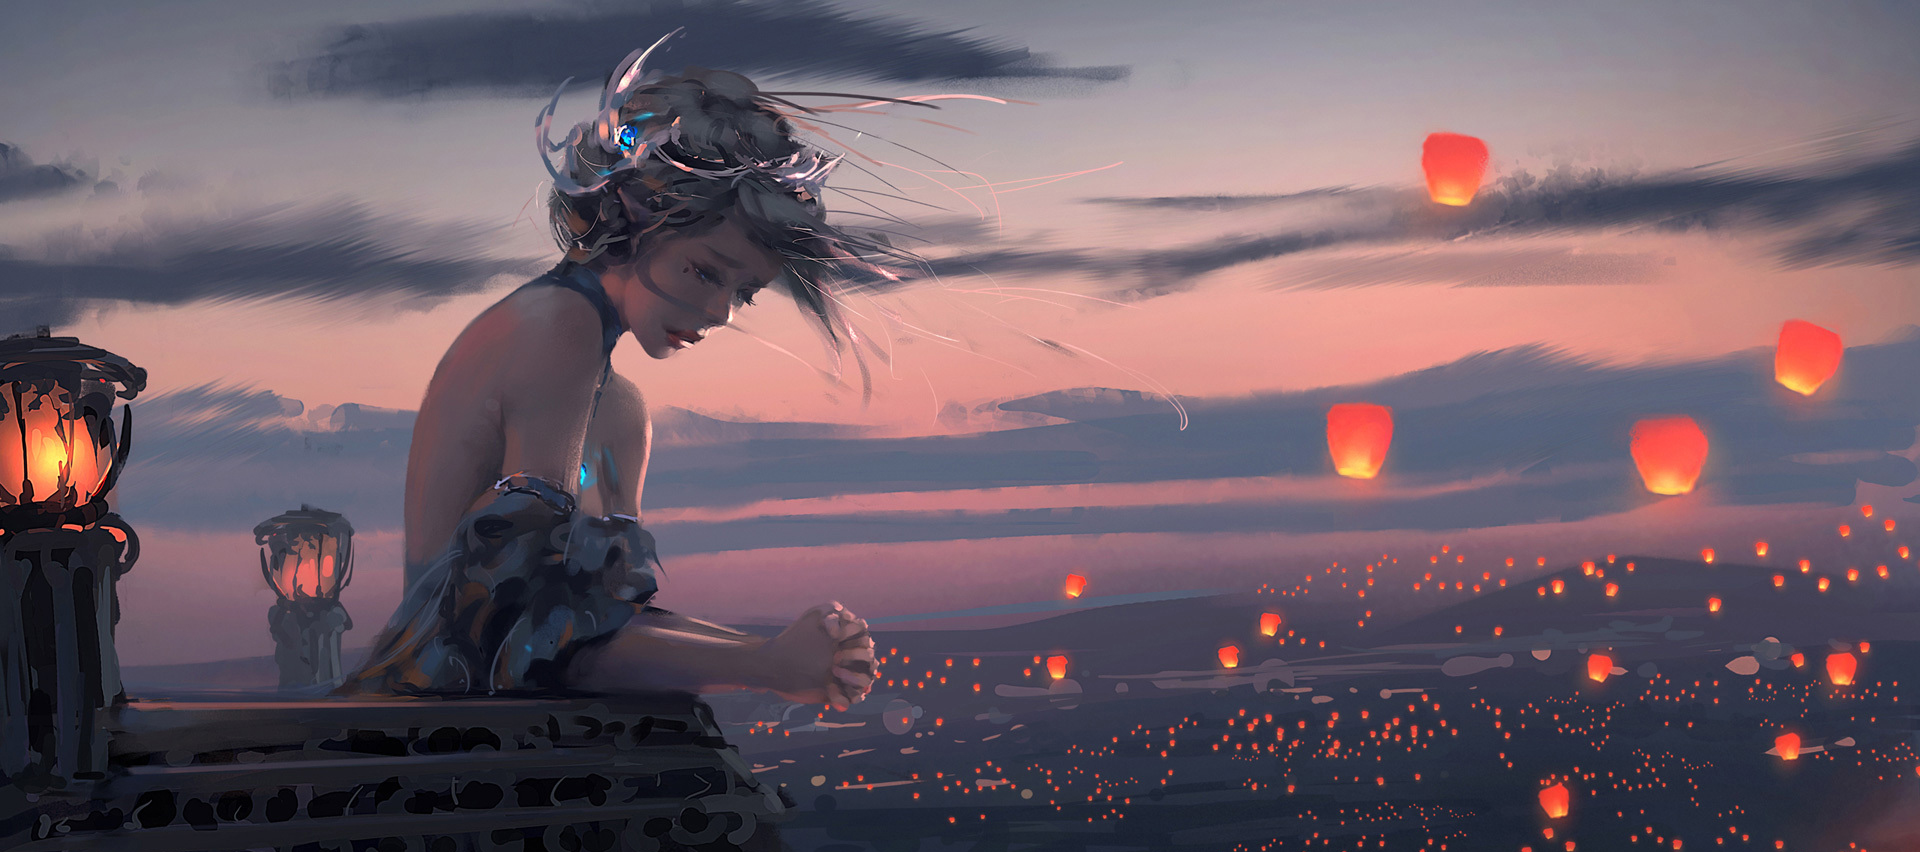
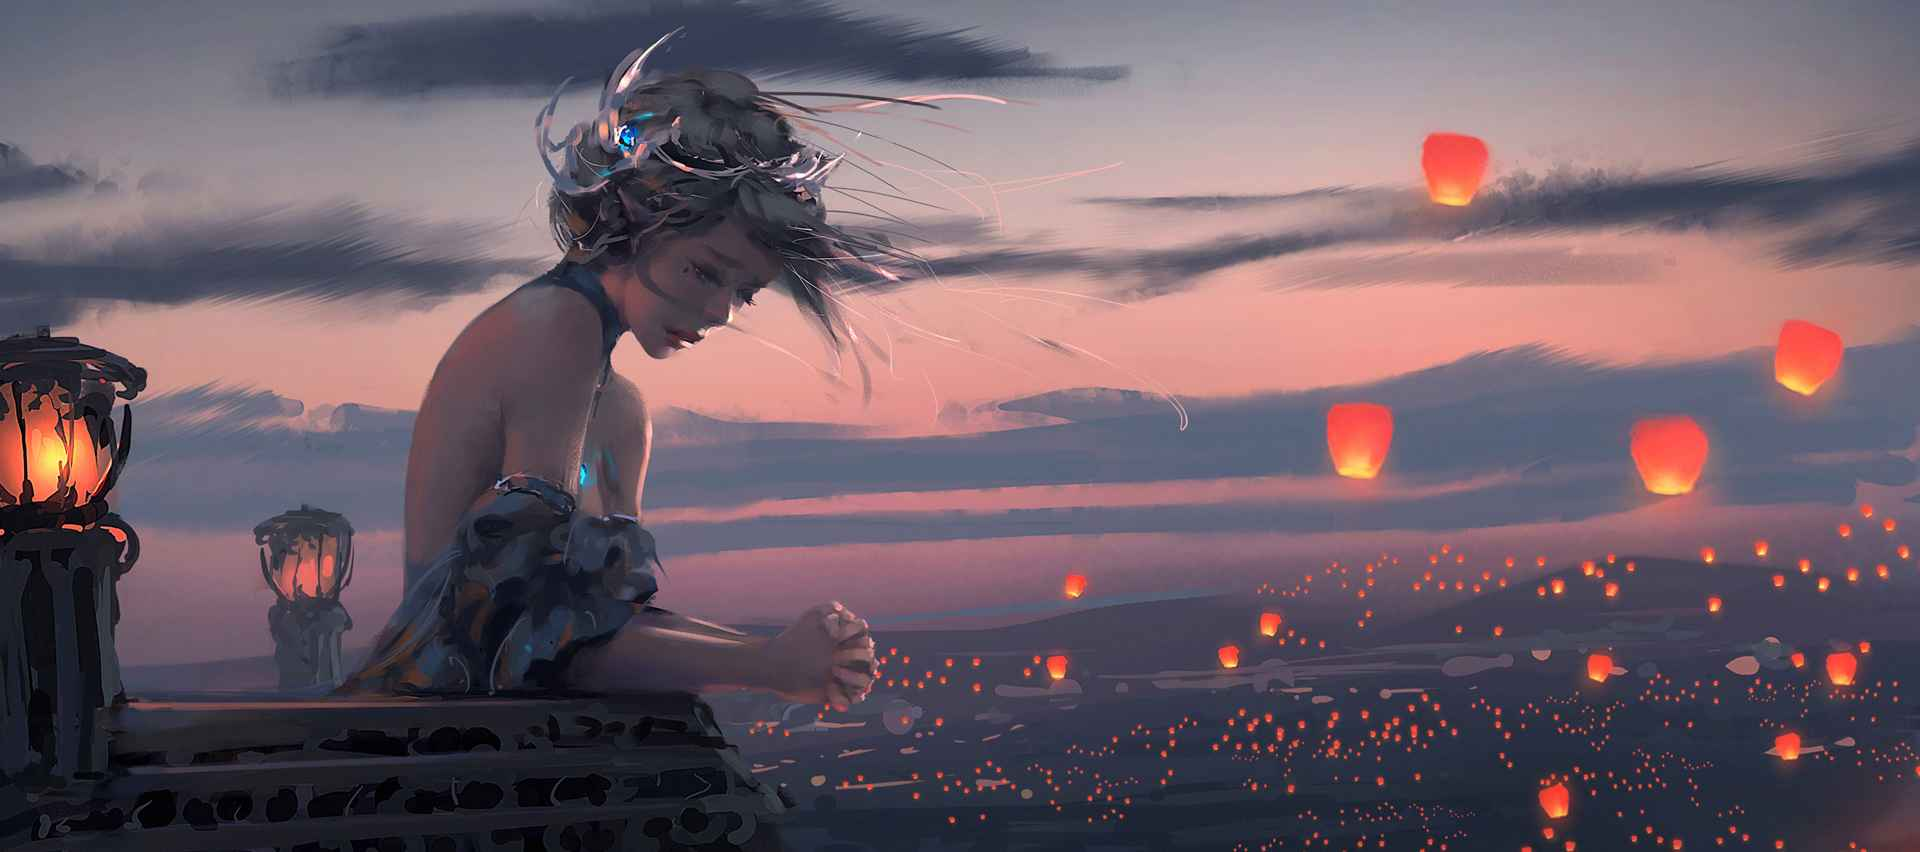
压缩图片

diff --git a/js/index.js b/js/index.js
@@ -1,253 +1,1 @@
-Date.prototype.Format = function (fmt) { // 
-  var o = {
-    "M+": this.getMonth() + 1, // 月份
-    "d+": this.getDate(), // 日
-    "h+": this.getHours(), // 小时
-    "m+": this.getMinutes(), // 分
-    "s+": this.getSeconds(), // 秒
-    "q+": Math.floor((this.getMonth() + 3) / 3), // 季度
-    "S": this.getMilliseconds() // 毫秒
-  };
-  if (/(y+)/.test(fmt))
-    fmt = fmt.replace(RegExp.$1, (this.getFullYear() + "").substr(4 - RegExp.$1.length));
-  for (var k in o)
-    if (new RegExp("(" + k + ")").test(fmt)) fmt = fmt.replace(RegExp.$1, (RegExp.$1.length == 1) ? (o[k]) : (("00" + o[k]).substr(("" + o[k]).length)));
-      return fmt;
-}
-
-
-const abi = [
-  {
-    "inputs": [
-      {
-        "internalType": "string",
-        "name": "title",
-        "type": "string"
-      }
-    ],
-    "name": "getBlog",
-    "outputs": [
-      {
-        "components": [
-          {
-            "internalType": "string",
-            "name": "title",
-            "type": "string"
-          },
-          {
-            "internalType": "string",
-            "name": "date",
-            "type": "string"
-          },
-          {
-            "internalType": "string",
-            "name": "content",
-            "type": "string"
-          }
-        ],
-        "internalType": "struct Blog.blog",
-        "name": "",
-        "type": "tuple"
-      }
-    ],
-    "stateMutability": "view",
-    "type": "function"
-  },
-  {
-    "inputs": [
-      {
-        "internalType": "string",
-        "name": "datakey",
-        "type": "string"
-      }
-    ],
-    "name": "getData",
-    "outputs": [
-      {
-        "internalType": "string",
-        "name": "",
-        "type": "string"
-      }
-    ],
-    "stateMutability": "view",
-    "type": "function"
-  },
-  {
-    "inputs": [
-      {
-        "internalType": "string",
-        "name": "title",
-        "type": "string"
-      },
-      {
-        "internalType": "string",
-        "name": "date",
-        "type": "string"
-      },
-      {
-        "internalType": "string",
-        "name": "content",
-        "type": "string"
-      }
-    ],
-    "name": "saveBlog",
-    "outputs": [],
-    "stateMutability": "nonpayable",
-    "type": "function"
-  },
-  {
-    "inputs": [
-      {
-        "internalType": "string",
-        "name": "datakey",
-        "type": "string"
-      },
-      {
-        "internalType": "string",
-        "name": "datavalue",
-        "type": "string"
-      }
-    ],
-    "name": "saveData",
-    "outputs": [],
-    "stateMutability": "nonpayable",
-    "type": "function"
-  },
-  {
-    "inputs": [
-      {
-        "internalType": "string",
-        "name": "_titles",
-        "type": "string"
-      }
-    ],
-    "name": "saveTitles",
-    "outputs": [],
-    "stateMutability": "nonpayable",
-    "type": "function"
-  },
-  {
-    "inputs": [],
-    "name": "titles",
-    "outputs": [
-      {
-        "internalType": "string",
-        "name": "",
-        "type": "string"
-      }
-    ],
-    "stateMutability": "view",
-    "type": "function"
-  }
-];
-
[1 lines of base64/hex data omitted]
-
-const conflux = new window.Conflux.Conflux({
-  url: 'https://test.confluxrpc.com',
-  networkId: 1,
-});
-const account = conflux.wallet.addPrivateKey(PRIVATE_KEY);
-
-function getContract(){
-  const contract = conflux.Contract({ abi, address: 'cfxtest:acctjwbk6615xd92b167626ws5957zpg92yhnjrkee' });
-  return contract;
-}
-
-async function getTitles() {
-  const contract = getContract();
-  const titlesStr = await contract.titles();
-  return titlesStr;
-}
-
-async function showTitles (){
-  const titlesStr = await getTitles();
-  const introUl = $("#intro").children("ul");
-  const titles = titlesStr.split("||");
-  $(introUl).html("");
-  for(var i=0;i<titles.length;i++){
-    $(introUl).append('<li onclick="showBlog(this)">'+titles[i]+'</li>');
-  }
-}
-
-var isAdding = 0;
-
-async function addBlog() {
-  if(isAdding == 1){
-    return;
-  }
-  const contract = getContract();
-  const title = $("#title").val().trim();
-  const content = $("#content").val().trim();
-  if(!title || !content){
-    return;
-  }
-  isAdding = 1;
-  $("#addBlogTips").show();
-  //先更新标题列表
-  var titlesStr = await getTitles();
-  var res = "";
-  if(titlesStr.indexOf(title) == -1){
-    titlesStr = titlesStr + "||" + title;
-    res = await contract.saveTitles(titlesStr).sendTransaction({ from: account }).executed();
-    console.log(res);
-  }
-  const nowTime = new Date().Format("yyyy-MM-dd hh:mm");
-  res = await contract.saveBlog(title,nowTime,content).sendTransaction({ from: account }).executed();
-  console.log(res);
-  isAdding = 0;
-  await showTitles();
-  $("#title").val('');
-  $("#content").val('');
-  $("#addBlogTips").hide();
-  alert('添加成功');
-  window.location.href = '#intro';
-}
-
-async function showBlog(o) {
-  const title = $(o).text();
-  const contract = getContract();
-  const postJson = await contract.getBlog(title);
-  const post = $("#post");
-  post.html('<h3 class="major">' + title + '</h3><h5>' + postJson['1'] + '</h5>');
-  post.append(postJson['2']);
-  window.location.href = '#post';
-}
-
-var isHandlingData = 0;
-
-async function handleData(flag){
-  if(isHandlingData == 1){
-    return;
-  }
-  const contract = getContract();
-  const datakey = $("#datakey").val().trim();
-  const datavalue = $("#datavalue").val().trim();
-  if(flag == 1){
-    //添加
-    if(!datakey || !datavalue){
-      return;
-    }
-    isHandlingData = 1;
-    $("#handleDataTips").show();
-    const res = await contract.saveData(datakey,datavalue).sendTransaction({ from: account }).executed();
-    console.log(res);
-    $("#datakey").val('');
-    $("#datavalue").val('');
-    alert('添加成功');
-  }else if(flag == 0){
-    //查询
-    if(!datakey){
-      return;
-    }
-    isHandlingData = 1;
-    $("#handleDataTips").show();
-    const datavalueStr = await contract.getData(datakey);
-    $("#datavalue").val(datavalueStr);
-  }
-  isHandlingData = 0;
-  $("#handleDataTips").hide();
-}
-
-
-showTitles();
[1 lines of base64/hex data omitted]

diff --git a/index.html b/index.html
@@ -24,14 +24,14 @@
 			<div class="content">
 				<div class="inner">
 					<h1>死灰の个人博客</h1>
-					<!-- <p><script src="https://api.oddfar.com/yl/q.php?c=2004&encode=js"></script></p> -->
+					<p><script src="https://api.oddfar.com/yl/q.php?c=2004&encode=js"></script></p>
 				</div>
 			</div>
 			<nav>
 				<ul>
 					<li><a href="#intro">文章列表</a></li>
 					<li><a href="#work">数据存储</a></li>
-					<li><a href="#addBlog">添加文章</a></li>
+					<!-- <li><a href="#addBlog">添加文章</a></li> -->
 					<li><a href="#about">关于本站</a></li>
 <!-- 					<li><a href="#elements">元素</a></li>
 					<li><a href="#post">测试</a></li> -->
@@ -381,6 +381,12 @@ print 'It took ' + i + ' iterations to sort the deck.';</code></pre>
 
 	<!-- Footer -->
 		<footer id="footer">
+			<p class="copyright">您的IP：
+				<script src="https://pv.sohu.com/cityjson?ie=utf-8"></script>
+				<script type="text/javascript">document.write(returnCitySN["cip"])</script>&nbsp;&nbsp;
+				<script src="https://pv.sohu.com/cityjson?ie=utf-8"></script>
+				<script type="text/javascript">document.write(returnCitySN["cname"])</script>
+			</p>
 			<p class="copyright">Copyright &copy; 2021 死灰_5had0w All rights reserved.</p>
 		</footer>
 
